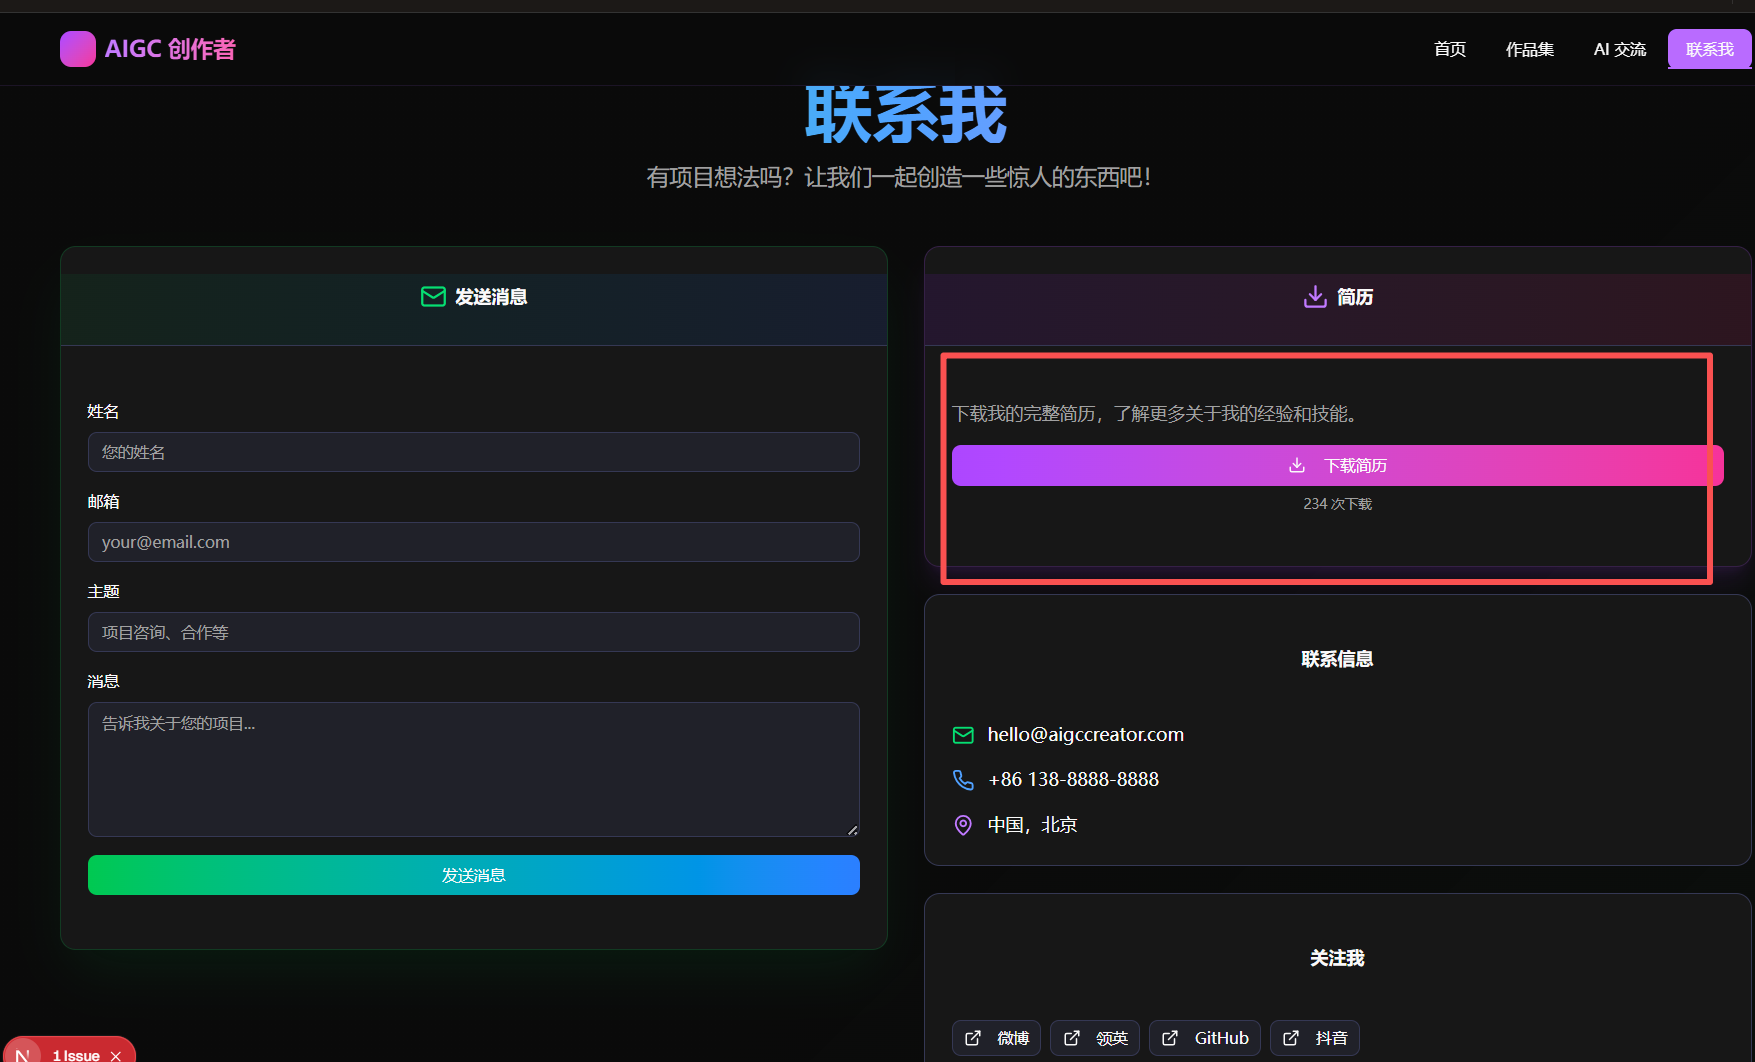
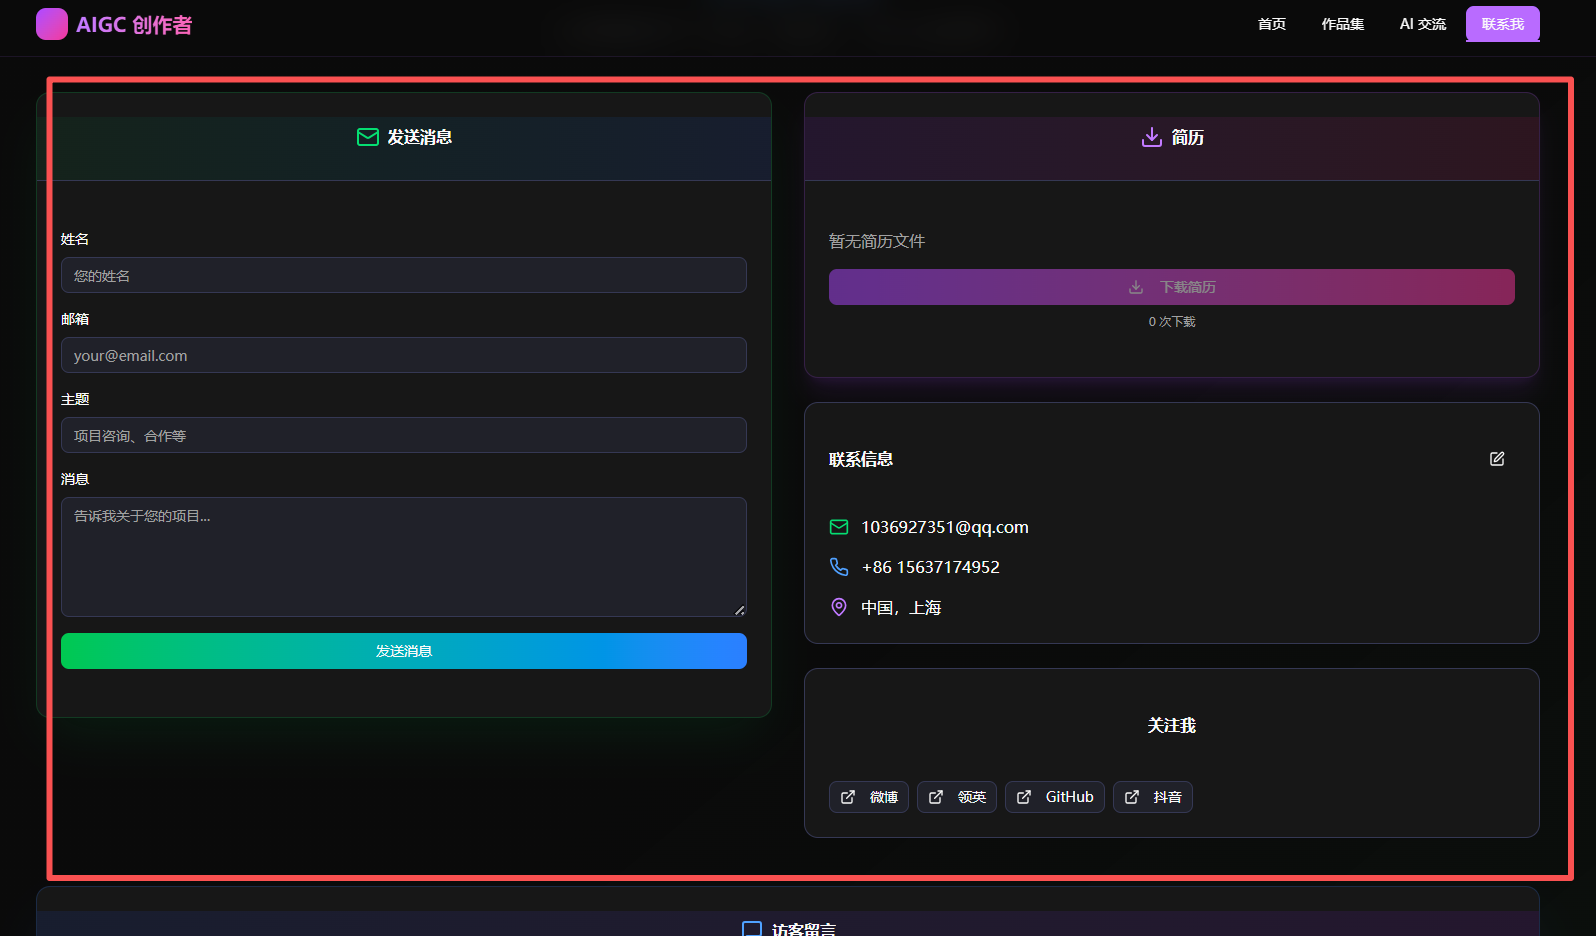
fix(contact): 调整联系页面左右卡片高度对齐布局

diff --git a/src/app/contact/page.tsx b/src/app/contact/page.tsx
@@ -168,14 +168,15 @@ export default function ContactPage() {
           </p>
         </motion.div>
 
-        <div className="grid grid-cols-1 lg:grid-cols-2 gap-8 mb-12">
+        <div className="flex flex-col lg:flex-row gap-8 mb-12 items-stretch">
           {/* Contact Form */}
           <motion.div
             initial={{ opacity: 0, x: -20 }}
             animate={{ opacity: 1, x: 0 }}
             transition={{ delay: 0.2 }}
+            className="flex-1"
           >
-            <Card className="border-green-500/20 shadow-2xl shadow-green-500/10">
+            <Card className="border-green-500/20 shadow-2xl shadow-green-500/10 h-full">
               <CardHeader className="bg-gradient-to-r from-green-900/20 to-blue-900/20 border-b !flex !flex-row !items-center !justify-center !min-h-[64px] !px-6">
                 <CardTitle className="flex items-center gap-2">
                   <Mail className="w-6 h-6 text-green-400" />
@@ -239,7 +240,7 @@ export default function ContactPage() {
             initial={{ opacity: 0, x: 20 }}
             animate={{ opacity: 1, x: 0 }}
             transition={{ delay: 0.3 }}
-            className="space-y-6"
+            className="flex-1 flex flex-col space-y-6"
           >
             {/* Resume Download */}
             <Card className="border-purple-500/20 shadow-xl shadow-purple-500/10">
@@ -270,7 +271,7 @@ export default function ContactPage() {
             </Card>
 
             {/* Contact Info */}
-            <Card>
+            <Card className="flex-1">
               <CardHeader className="!flex !flex-row !items-center !justify-between !min-h-[64px] !px-6">
                 <CardTitle>联系信息</CardTitle>
                 <Button
@@ -299,7 +300,7 @@ export default function ContactPage() {
             </Card>
 
             {/* Social Links */}
-            <Card>
+            <Card className="flex-1">
               <CardHeader className="!flex !flex-row !items-center !justify-center !min-h-[64px] !px-6">
                 <CardTitle>关注我</CardTitle>
               </CardHeader>
